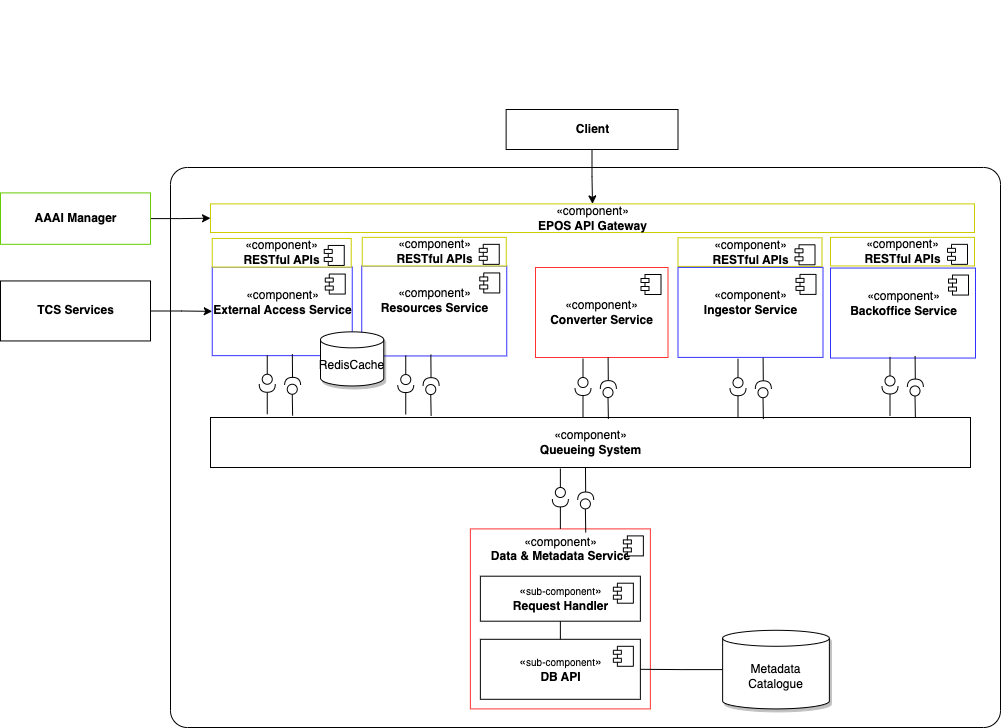
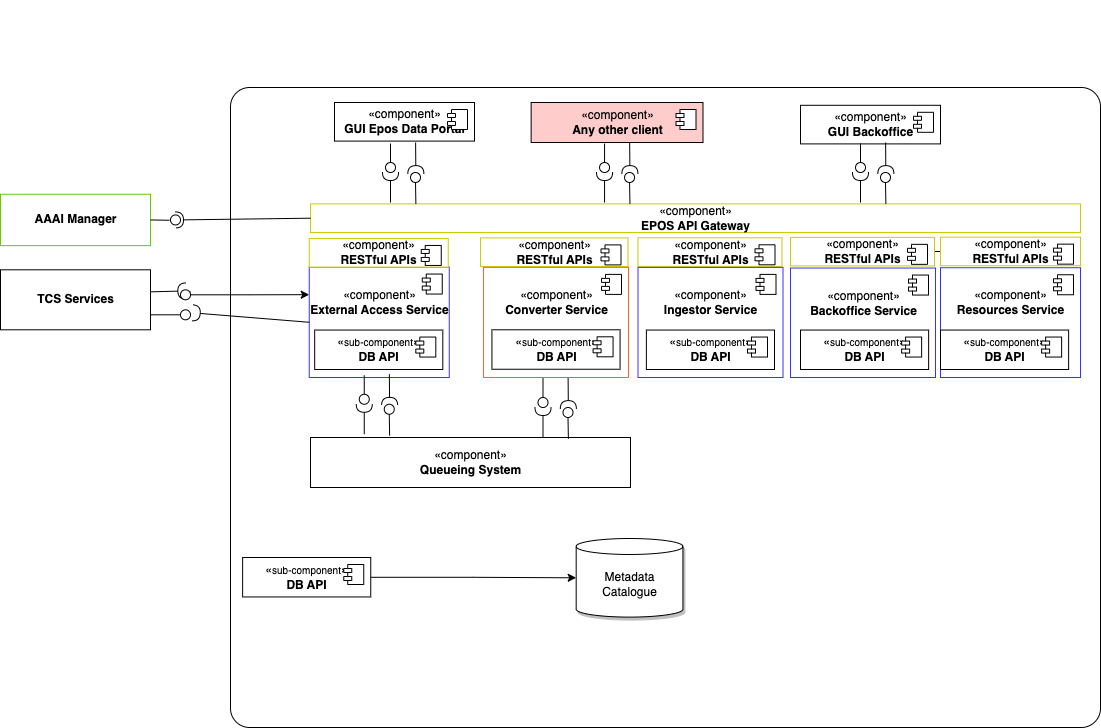
update installers and stack of services

diff --git a/documentation/current_stack.md b/documentation/current_stack.md
@@ -12,10 +12,8 @@
 | Ingestor Service | [![Docker Image Version (latest by date)](https://img.shields.io/docker/v/epos/ingestor-service)](https://hub.docker.com/r/epos/ingestor-service)<br>[![Docker Image Size (latest by date)](https://img.shields.io/docker/image-size/epos/ingestor-service)](https://hub.docker.com/r/epos/ingestor-service)<br>[![Docker Pulls](https://img.shields.io/docker/pulls/epos/ingestor-service)](https://hub.docker.com/r/epos/ingestor-service) | [![Git Repository](https://img.shields.io/badge/Git-open%20repository-white?logoColor=fff&style=flat)](https://github.com/epos-eu/ingestor-service) |
 | Converter Service | [![Docker Image Version (latest by date)](https://img.shields.io/docker/v/epos/converter-service)](https://hub.docker.com/r/epos/converter-service)<br>[![Docker Image Size (latest by date)](https://img.shields.io/docker/image-size/epos/converter-service)](https://hub.docker.com/r/epos/converter-service)<br>[![Docker Pulls](https://img.shields.io/docker/pulls/epos/converter-service)](https://hub.docker.com/r/epos/converter-service) | [![Git Repository](https://img.shields.io/badge/Git-open%20repository-white?logoColor=fff&style=flat)](https://github.com/epos-eu/converter-service) |
 | Backoffice Service | [![Docker Image Version (latest by date)](https://img.shields.io/docker/v/epos/backoffice-service)](https://hub.docker.com/r/epos/backoffice-service)<br>[![Docker Image Size (latest by date)](https://img.shields.io/docker/image-size/epos/backoffice-service)](https://hub.docker.com/r/epos/backoffice-service)<br>[![Docker Pulls](https://img.shields.io/docker/pulls/epos/backoffice-service)](https://hub.docker.com/r/epos/backoffice-service) | [![Git Repository](https://img.shields.io/badge/Git-open%20repository-white?logoColor=fff&style=flat)](https://github.com/epos-eu/backoffice-service) |
-| Data Metadata Service | [![Docker Image Version (latest by date)](https://img.shields.io/docker/v/epos/data-metadata-service)](https://hub.docker.com/r/epos/data-metadata-service)<br>[![Docker Image Size (latest by date)](https://img.shields.io/docker/image-size/epos/data-metadata-service)](https://hub.docker.com/r/epos/data-metadata-service)<br>[![Docker Pulls](https://img.shields.io/docker/pulls/epos/data-metadata-service)](https://hub.docker.com/r/epos/data-metadata-service) | [![Git Repository](https://img.shields.io/badge/Git-open%20repository-white?logoColor=fff&style=flat)](https://github.com/epos-eu/data-metadata-service) |
 
 
 | Database name | DockerHub | Git Repository |
 |--|--|--|
 | Metadata Database | [![Docker Image Version (latest by date)](https://img.shields.io/docker/v/epos/metadata-database-deploy)](https://hub.docker.com/r/epos/metadata-database-deploy)<br>[![Docker Image Size (latest by date)](https://img.shields.io/docker/image-size/epos/metadata-database-deploy)](https://hub.docker.com/r/epos/metadata-database-deploy)<br>[![Docker Pulls](https://img.shields.io/docker/pulls/epos/metadata-database-deploy)](https://hub.docker.com/r/epos/metadata-database-deploy) | [![Git Repository](https://img.shields.io/badge/Git-open%20repository-white?logoColor=fff&style=flat)](https://github.com/epos-eu/metadata-database) |
-| Redis | [![Docker Image Version (latest by date)](https://img.shields.io/docker/v/_/redis)](https://hub.docker.com/_/redis)<br>[![Docker Image Size (latest by date)](https://img.shields.io/docker/image-size/_/redis)](https://hub.docker.com/_/redis)<br>[![Docker Pulls](https://img.shields.io/docker/pulls/epos/metadata-database-deploy)](https://hub.docker.com/_/redis) | [![Git Repository](https://img.shields.io/badge/Git-open%20repository-white?logoColor=fff&style=flat)](https://github.com/redis/redis) |

diff --git a/documentation/technical-design.md b/documentation/technical-design.md
@@ -100,8 +100,8 @@ Properties:   [{<<"timestamp">>,signedint,1678370895},
 |--|-------------|
 | Role | Discovery |
 | Description | Discovery resources on metadata catalogue. It requires no authentication. It is used to provide a list of all available resources (services, software, organization etc.). |
-| Interactions (with other parts of the system) | Broker Service, Data Metadata Service, Converter Service |
-| Inputs and outputs (system side) | Message exchange |
+| Interactions (with other parts of the system) | Metadata Catalogue |
+| Inputs and outputs (system side) | Database Interaction|
 
 * BackOffice Service
 
@@ -109,8 +109,8 @@ Properties:   [{<<"timestamp">>,signedint,1678370895},
 |--|-------------|
 | Role | Metadata Management |
 | Description | Manage metadata information into metadata catalogue |
-| Interactions (with other parts of the system) | Broker Service, Data Metadata Service|
-| Inputs and outputs (system side) | Message exchange, Database Interaction |
+| Interactions (with other parts of the system) | Metadata Catalogue|
+| Inputs and outputs (system side) | Database Interaction |
 
 * Ingestor Service
 
@@ -118,8 +118,8 @@ Properties:   [{<<"timestamp">>,signedint,1678370895},
 |--|-------------|
 | Role | Metadata Management |
 | Description | Insert metadata information into metadata catalogue |
-| Interactions (with other parts of the system) | Broker Service, Data Metadata Service|
-| Inputs and outputs (system side) | Message exchange, Database Interaction |
+| Interactions (with other parts of the system) |Metadata Catalogue|
+| Inputs and outputs (system side) | Database Interaction |
 
 * External Access Service
 
@@ -127,8 +127,8 @@ Properties:   [{<<"timestamp">>,signedint,1678370895},
 |--|-------------|
 | Role | Access external metadata and data |
 | Description | Access to external services from ICS-C in order to gather data and metadata to be used by clients |
-| Interactions (with other parts of the system) |  Broker Service, Data Metadata Service, Converter Service |
-| Inputs and outputs | Message Exchange, TCS Webservices APIs |
+| Interactions (with other parts of the system) |  Broker Service, Metadata Catalogue, Converter Service |
+| Inputs and outputs | Message Exchange, Database Interaction, TCS Webservices APIs |
 
 
 * Converter Service
@@ -137,15 +137,5 @@ Properties:   [{<<"timestamp">>,signedint,1678370895},
 |--|-------------|
 | Role | Conversions of payloads |
 | Description | It provides a service which enable the conversion of metadata/data payloads, based on a plugin system |
-| Interactions (with other parts of the system) |  Broker Service, Data Metadata Service |
-| Inputs and outputs |  Message Exchange |
-
-
-* Data Metadata Service
-
-|  |  | 
-|--|-------------|
-| Role | Handling Database Requests |
-| Description | This service handle request received from services that need to be executed on the database |
-| Interactions (with other parts of the system) | Broker Service, Metadata Catalogue |
-| Inputs and outputs |Message Exchange, Database Interaction | 
+| Interactions (with other parts of the system) |  Broker Service, Metadata Catalogue|
+| Inputs and outputs |  Message Exchange, Database Interaction |

diff --git a/documentation/installers.md b/documentation/installers.md
@@ -1,4 +1,5 @@
 | Installer name | Installer download | Git Repository |
 |--|--|--|
+| EPOS Open Source Desktop | [![Download](https://img.shields.io/badge/Download-Get%20the%20binary-brightgreen)](https://github.com/epos-eu/opensource-desktop/releases) | [![Git Repository](https://img.shields.io/badge/Git-open%20repository-white?logoColor=fff&style=flat)](https://github.com/epos-eu/opensource-desktop) |
 | EPOS Open Source Docker | [![Download](https://img.shields.io/badge/Download-Get%20the%20binary-brightgreen)](https://github.com/epos-eu/opensource-docker/releases) | [![Git Repository](https://img.shields.io/badge/Git-open%20repository-white?logoColor=fff&style=flat)](https://github.com/epos-eu/opensource-docker) |
 | EPOS Open Source Kubernetes | [![Download](https://img.shields.io/badge/Download-Get%20the%20binary-brightgreen)](https://github.com/epos-eu/opensource-kubernetes/releases) | [![Git Repository](https://img.shields.io/badge/Git-open%20repository-white?logoColor=fff&style=flat)](https://github.com/epos-eu/opensource-kubernetes) |
